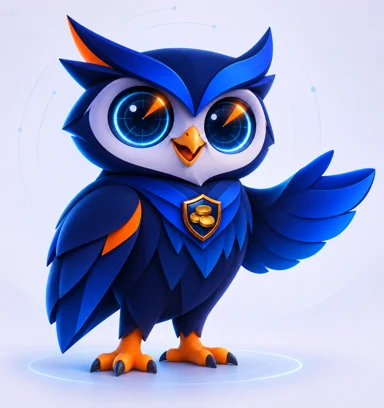
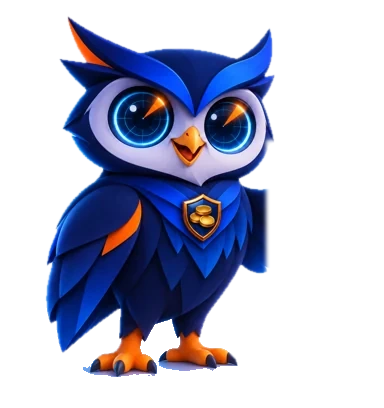
Mascote: fundo transparente e asa que bate ao passar o mouse
A coruja foi recortada do fundo e a asa levantada virou uma camada separada.
Ao passar o mouse, tocar ou focar pelo teclado, ela dá um pulinho e bate a asa.
Quem pediu menos movimento no aparelho não vê a animação.

Claude-Session: https://claude.ai/code/session_01Pj2LmWGHdh2xTuqBZ27XhJ

diff --git a/cotacoes/src/FeedbackMascot.css b/cotacoes/src/FeedbackMascot.css
@@ -1,12 +1,17 @@
 .feedback-trigger,.feedback-dialog{--feedback-face:#171712;--feedback-panel:var(--bg,#0b0b09);--feedback-text:var(--fg,#eeeae0);color:var(--feedback-text);font-family:inherit}
 .feedback-trigger{display:flex;flex-direction:column;align-items:center;gap:2px;width:100%;padding:0;background:transparent;border:0;cursor:pointer;font-family:inherit;font-size:12px;font-weight:700;line-height:1.2;color:var(--fg)}
-.feedback-mascot-icon{display:block;width:84px;height:90px;object-fit:contain;border-radius:14px;flex:none}
+.feedback-mascot-icon{position:relative;display:block;width:84px;height:90px;flex:none;pointer-events:none}
+.feedback-mascot-icon img{position:absolute;inset:0;width:100%;height:100%;object-fit:contain}
+.mascot-wing{transform-origin:65.6% 55.1%}
+@keyframes mascot-hop{0%,100%{transform:translateY(0) rotate(0)}30%{transform:translateY(-6px) rotate(-3deg)}60%{transform:translateY(0) rotate(2deg)}}
+@keyframes mascot-flap{0%,100%{transform:rotate(0)}25%{transform:rotate(-14deg)}50%{transform:rotate(8deg)}75%{transform:rotate(-14deg)}}
+@media(prefers-reduced-motion:no-preference){.feedback-trigger:hover .mascot-body,.feedback-trigger:focus-visible .mascot-body,.feedback-trigger:active .mascot-body{animation:mascot-hop .9s ease-in-out infinite}.feedback-trigger:hover .mascot-wing,.feedback-trigger:focus-visible .mascot-wing,.feedback-trigger:active .mascot-wing{animation:mascot-hop .9s ease-in-out infinite,mascot-flap .45s ease-in-out infinite}}
 .feedback-heading .feedback-mascot-icon{width:50px;height:54px}
 .feedback-dialog{box-sizing:border-box;width:min(460px,calc(100vw - 24px));max-height:calc(100dvh - 32px);margin:auto;padding:20px;background:var(--feedback-panel);border:1px solid var(--line,#484739);border-radius:18px;box-shadow:0 20px 80px #0008;overflow-y:auto;overscroll-behavior:contain;line-height:1.5}
 .feedback-dialog::backdrop{background:#0009}
 .feedback-heading{display:flex;align-items:center;gap:10px}.feedback-heading>div{min-width:0;flex:1}.feedback-heading>div>span{display:block;font-size:12px;letter-spacing:.12em;color:var(--amber,#ffb000)}.feedback-heading h2{font-size:19px;line-height:1.2;margin:5px 0}.feedback-close{flex:none;width:44px;height:44px;border:1px solid var(--line,#484739);background:transparent;color:inherit;font-size:24px;font-family:inherit;cursor:pointer;border-radius:10px}
 .feedback-privacy,.feedback-provider,.feedback-notice{font-size:12px;margin:14px 0}.feedback-notice{border:1px solid var(--amber,#ffb000);padding:10px;border-radius:8px}.feedback-fields{border:0;padding:0;margin:0;min-width:0;display:grid;gap:10px}.feedback-fields label{display:grid;gap:5px;font-size:12px;font-weight:600}.feedback-fields label span{font-weight:400}.feedback-dialog input,.feedback-dialog select,.feedback-dialog textarea{box-sizing:border-box;min-width:0;width:100%;padding:10px;border:1px solid var(--line,#484739);border-radius:7px;background:var(--surface-2,#191914);color:inherit;font:inherit;font-size:16px;line-height:1.4;min-height:44px}.feedback-dialog textarea{resize:vertical;min-height:110px;max-height:35dvh}.feedback-dialog small{font-size:12px}.feedback-contact{display:grid;grid-template-columns:1fr 1fr;gap:10px}.feedback-honeypot{position:absolute;width:1px;height:1px;overflow:hidden;clip-path:inset(50%);white-space:nowrap}.feedback-provider a{color:var(--amber,#ffb000);text-decoration:underline}.feedback-submit{width:100%;min-height:44px;padding:11px 18px;border:0;border-radius:9px;background:var(--brand-fill,#ffb000);color:var(--on-brand,#181307);font-family:inherit;font-size:14px;font-weight:600;line-height:1.3;cursor:pointer}.feedback-submit:disabled{opacity:.6;cursor:not-allowed}.feedback-session{display:block;margin-top:8px;text-align:center}.feedback-status:empty{display:none}.feedback-status,.feedback-error{font-size:12px}.feedback-error{border-left:3px solid #e75959;padding-left:9px}.feedback-trigger:focus-visible,.feedback-dialog :focus-visible{outline:3px solid var(--amber,#ffb000);outline-offset:3px}
-@media(max-width:380px){.feedback-dialog{padding:14px}.feedback-contact{grid-template-columns:1fr}.feedback-heading h2{font-size:16px}.feedback-heading .feedback-mascot-icon{width:38px;height:38px}}
+@media(max-width:380px){.feedback-dialog{padding:14px}.feedback-contact{grid-template-columns:1fr}.feedback-heading h2{font-size:16px}.feedback-heading .feedback-mascot-icon{width:38px;height:41px}}
 @media print{.feedback-trigger,.feedback-dialog{display:none!important}}
 
 .mascot-tray{font-family:inherit;color:var(--fg);position:relative}

diff --git a/cotacoes/src/FeedbackMascot.jsx b/cotacoes/src/FeedbackMascot.jsx
@@ -5,9 +5,13 @@ import { EMPTY_FEEDBACK, FEEDBACK_LIMITS, FEEDBACK_TYPES, feedbackEndpoint, send
 import './FeedbackMascot.css'
 import MascotDock from './MascotDock.jsx'
 import owl from './assets/mascot-owl.webp'
+import owlWing from './assets/mascot-owl-wing.webp'
 
 export function MascotIcon() {
-  return <img src={owl} alt="" className="feedback-mascot-icon" width="384" height="408" draggable="false" />
+  return <span className="feedback-mascot-icon" aria-hidden="true">
+    <img src={owl} alt="" className="mascot-body" width="384" height="408" draggable="false" />
+    <img src={owlWing} alt="" className="mascot-wing" width="384" height="408" draggable="false" />
+  </span>
 }
 
 export default function FeedbackMascot({ configuration = config, onSearch }) {
